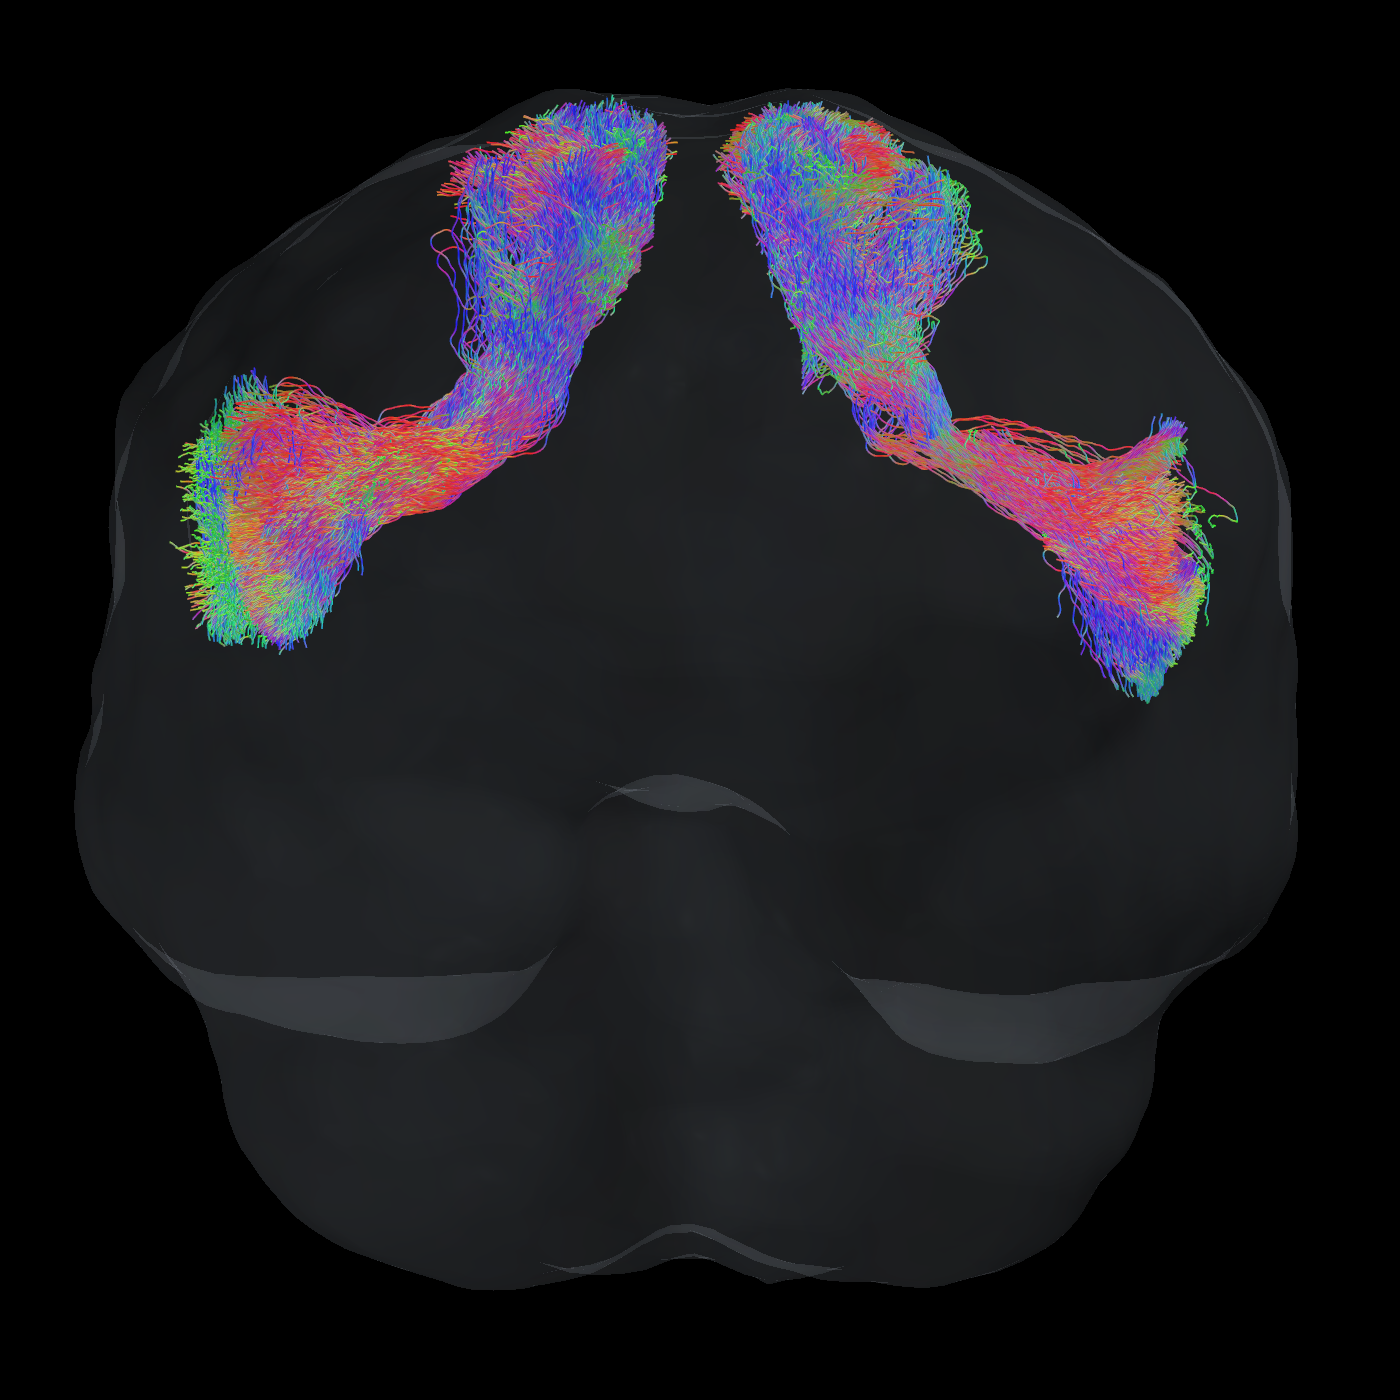
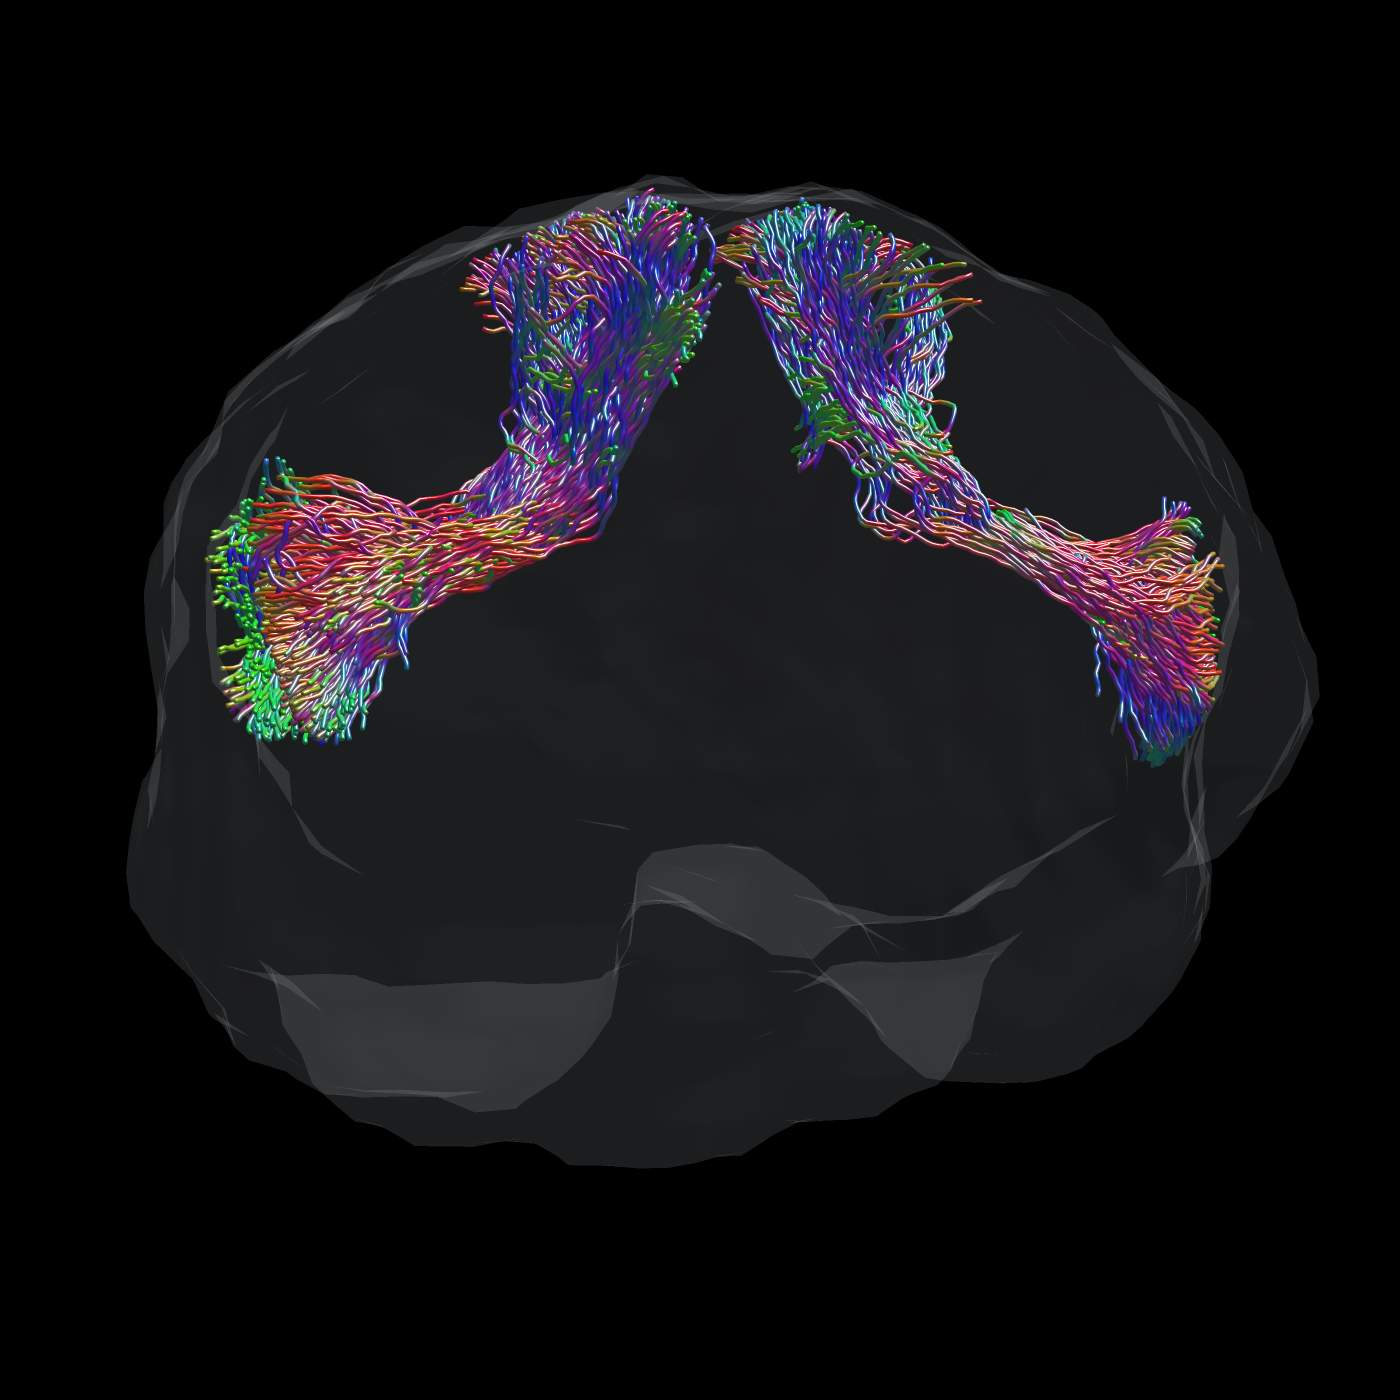
Anchor viewer skylight and refresh reflective tract preview

diff --git a/docs/sky-light.js b/docs/sky-light.js
@@ -1,0 +1,47 @@
+"use strict";
+
+// Plotly 2.32.0's mesh shader mixes view-space positions with object-space
+// light/eye coordinates. Keep lighting in world space instead: a distant
+// overhead light stays put, and only the eye moves when the scene is rotated.
+// This small adapter targets the bundled Plotly renderer; keep the browser
+// lighting check when upgrading it. Geometry and material shading stay intact.
+const skyLightVertexShader = `
+precision highp float;
+attribute vec3 position, normal;
+attribute vec4 color;
+attribute vec2 uv;
+uniform mat4 model, view, projection, inverseModel;
+varying vec3 f_normal, f_lightDirection, f_eyeDirection, f_data;
+varying vec4 f_color;
+varying vec2 f_uv;
+
+void main() {
+  vec4 worldPosition = model * vec4(position, 1.0);
+  gl_Position = projection * view * worldPosition;
+  vec3 skyPosition = vec3(-3.0, 4.0, 8.0);
+  vec3 eyeWorld = -view[3].xyz * mat3(view);
+  f_lightDirection = skyPosition - worldPosition.xyz;
+  f_eyeDirection = eyeWorld - worldPosition.xyz;
+  f_normal = normalize((vec4(normal, 0.0) * inverseModel).xyz);
+  f_color = color;
+  f_data = position;
+  f_uv = uv;
+}
+`;
+
+const skyLightShaders = new WeakSet();
+
+function applySkyLight(plot) {
+  const scene = plot._fullLayout.scene._scene;
+  for (const trace of Object.values(scene.traces)) {
+    const mesh = trace.mesh;
+    const shader = mesh.triShader;
+    if (skyLightShaders.has(shader)) continue;
+    const attributes = Object.entries(shader.types.attributes).map(([name, type]) => ({
+      name, type, location: shader.attributes[name].location
+    }));
+    shader.update(skyLightVertexShader, mesh.gl.getShaderSource(shader.fragShader), null, attributes);
+    skyLightShaders.add(shader);
+  }
+  scene.glplot.redraw();
+}

diff --git a/docs/viewer.js b/docs/viewer.js
@@ -1,4 +1,4 @@
-/* global Plotly, tractMesh */
+/* global Plotly, tractMesh, applySkyLight */
 "use strict";
 
 const viewer = document.getElementById("viewer");
@@ -47,6 +47,7 @@ async function showAlgorithm() {
         zaxis: {visible: false, autorange: false, range: [-95, 92]}}
     };
     await Plotly.react(viewer, traces, layout, {displayModeBar: false, scrollZoom: true, responsive: true});
+    applySkyLight(viewer);
     ready = true;
     current = requested;
     viewer.dataset.algorithm = current;

diff --git a/docs/index.html b/docs/index.html
@@ -7,8 +7,9 @@
   <meta name="description" content="Explore the Frontal Aslant Tract in 3D and compare tracking algorithms.">
   <link rel="stylesheet" href="viewer.css">
   <script defer src="vendor/plotly.min.js"></script>
-  <script defer src="tract-mesh.js?v=1"></script>
-  <script defer src="viewer.js?v=3"></script>
+  <script defer src="tract-mesh.js?v=2"></script>
+  <script defer src="sky-light.js?v=1"></script>
+  <script defer src="viewer.js?v=4"></script>
 </head>
 <body>
   <header>

diff --git a/docs/tract-mesh.js b/docs/tract-mesh.js
@@ -36,7 +36,6 @@ function tractMesh(trace) {
     i: new Uint32Array(faces), j: new Uint32Array(faces), k: new Uint32Array(faces),
     vertexcolor: new Array(vertices), flatshading: false,
     lighting: {ambient: 0.32, diffuse: 0.72, specular: 1.5, roughness: 0.2, fresnel: 0.3},
-    lightposition: {x: 1000, y: 1500, z: 2000},
     opacity: 1, hoverinfo: "skip", showscale: false, showlegend: false
   };
   const circle = Array.from({length: sides}, (_, side) => {

diff --git a/tests/viewer_lighting_check.py b/tests/viewer_lighting_check.py
@@ -1,0 +1,101 @@
+"""Check fixed skylight reflections and optionally capture the README preview.
+
+Use the Chrome setup documented in viewer_geometry_check.py. Requires Pillow
+and NumPy as well as websocket-client. To also refresh the repository image:
+python3 tests/viewer_lighting_check.py --preview assets/fat_3d.png
+"""
+
+import argparse
+import base64
+from io import BytesIO
+from pathlib import Path
+import time
+
+import numpy as np
+from PIL import Image
+
+from viewer_geometry_check import Browser
+
+
+def evaluate(browser: Browser, expression: str) -> None:
+    result = browser.call("Runtime.evaluate", dict(expression=expression, awaitPromise=True))
+    if "exceptionDetails" in result:
+        raise RuntimeError(result["exceptionDetails"])
+
+
+def capture(browser: Browser, size: int) -> bytes:
+    evaluate(browser, "new Promise(resolve => requestAnimationFrame(() => requestAnimationFrame(resolve)))")
+    time.sleep(0.5)
+    return base64.b64decode(browser.call("Page.captureScreenshot", dict(
+        format="png", clip=dict(x=0, y=0, width=size, height=size, scale=1)))['data'])
+
+
+def main() -> None:
+    parser = argparse.ArgumentParser(description=__doc__)
+    parser.add_argument("--url", default="http://127.0.0.1:8766")
+    parser.add_argument("--debug-url", default="http://127.0.0.1:9238")
+    parser.add_argument("--preview", type=Path)
+    args = parser.parse_args()
+    browser = Browser(args.debug_url)
+    try:
+        browser.call("Page.enable")
+        browser.call("Network.enable")
+        browser.call("Network.setCacheDisabled", dict(cacheDisabled=True))
+        browser.call("Emulation.setDeviceMetricsOverride", dict(
+            width=900, height=900, deviceScaleFactor=1, mobile=False))
+        separator = "&" if "?" in args.url else "?"
+        browser.call("Page.navigate", dict(url=f"{args.url}{separator}lighting-check={time.time()}"))
+        browser.wait_for("document.getElementById('viewer')?.dataset.algorithm === 'iFOD2'")
+        # A horizontal mirror-like square must shine toward the reflected sky
+        # direction (+3,-4,+8), and dim when viewed from the opposite azimuth.
+        # Its centre stays at the same screen position in both views.
+        evaluate(browser, """(async () => {
+          const probe = document.createElement('div');
+          probe.id = 'lighting-probe';
+          probe.style = 'position:fixed;left:0;top:0;width:512px;height:512px;z-index:100';
+          document.body.appendChild(probe);
+          const axis = {visible:false, range:[-1,1], autorange:false};
+          await Plotly.newPlot(probe, [{type:'mesh3d',
+            x:[-0.7,0.7,0.7,-0.7], y:[-0.7,-0.7,0.7,0.7], z:[0,0,0,0],
+            i:[0,0],j:[1,2],k:[2,3],color:'white',flatshading:true,
+            lighting:{ambient:0,diffuse:0,specular:1,roughness:0.2,fresnel:0.3}}],
+            {paper_bgcolor:'black',margin:{l:0,r:0,t:0,b:0},scene:{bgcolor:'black',
+              xaxis:axis,yaxis:axis,zaxis:axis,aspectmode:'cube',
+              camera:{eye:{x:0.6,y:-0.8,z:1.6},up:{x:0,y:0,z:1}}}},
+            {displayModeBar:false});
+          applySkyLight(probe);
+        })()""")
+        reflected = np.asarray(Image.open(BytesIO(capture(browser, 512))).convert("RGB"))
+        evaluate(browser, """Plotly.relayout(document.getElementById('lighting-probe'), {
+          'scene.camera.eye':{x:-0.6,y:0.8,z:1.6}})""")
+        opposite = np.asarray(Image.open(BytesIO(capture(browser, 512))).convert("RGB"))
+        bright = float(reflected[248:264, 248:264].mean())
+        dark = float(opposite[248:264, 248:264].mean())
+        if not bright > max(30, dark * 3):
+            raise AssertionError(f"Skylight did not stay fixed as the camera rotated: {bright=}, {dark=}")
+        print(f"Fixed skylight: reflection {bright:.1f}/255, opposite view {dark:.1f}/255.", flush=True)
+        evaluate(browser, """(() => {
+          const probe=document.getElementById('lighting-probe');
+          Plotly.purge(probe); probe.remove();
+        })()""")
+        if args.preview:
+            browser.call("Emulation.setDeviceMetricsOverride", dict(
+                width=1400, height=1400, deviceScaleFactor=1, mobile=False))
+            evaluate(browser, """(async () => {
+              document.querySelector('header').style.display='none';
+              document.querySelector('footer').style.display='none';
+              document.body.style.display='block';
+              const plot=document.getElementById('viewer');
+              plot.style.width='1400px'; plot.style.height='1400px';
+              await Plotly.Plots.resize(plot);
+              await Plotly.relayout(plot, {'scene.camera':{
+                eye:{x:0.24,y:1.1,z:0.18},up:{x:0,y:0,z:1},center:{x:0,y:0,z:0.02}}});
+            })()""")
+            args.preview.write_bytes(capture(browser, 1400))
+            print(f"Saved preview: {args.preview}", flush=True)
+    finally:
+        browser.connection.close()
+
+
+if __name__ == "__main__":
+    main()

diff --git a/tests/viewer_geometry_check.py b/tests/viewer_geometry_check.py
@@ -85,6 +85,10 @@ def main() -> None:
                              "document.getElementById('algorithm').dispatchEvent(new Event('change'));true")
             browser.wait_for(f"document.getElementById('viewer').dataset.algorithm === {json.dumps(algorithm)}"
                              " && !document.getElementById('algorithm').disabled")
+            if not browser.evaluate("""Object.values(document.getElementById('viewer')._fullLayout.scene._scene.traces)
+                .every(({mesh}) => mesh.gl.getProgramParameter(mesh.triShader.program, mesh.gl.LINK_STATUS)
+                  && mesh.gl.getShaderSource(mesh.triShader.vertShader).includes('skyPosition - worldPosition.xyz'))"""):
+                raise AssertionError(f"Fixed skylight shader missing or invalid for {algorithm}")
             for side in ("both", "left", "right"):
                 browser.evaluate(f"document.getElementById('side').value={json.dumps(side)};"
                                  "document.getElementById('side').dispatchEvent(new Event('change'));true")

diff --git a/README.md b/README.md
@@ -7,7 +7,7 @@ and a brain-extracted T1, using HCP1065 atlas masks and cortical target regions.
 `fat.sh` runs iFOD2 with 2000 streamlines per side by default. Tracking algorithms,
 streamline counts and mask settings are selectable through command-line options.
 
-[![FAT in direction RGB — open the 3D viewer](assets/fat_3d.png)](https://lucsam.github.io/tractseg_xtract_fat/)
+[![FAT in direction RGB with fixed skylight reflections — open the 3D viewer](assets/fat_3d.png?v=2)](https://lucsam.github.io/tractseg_xtract_fat/)
 
 [Open the 3D viewer](https://lucsam.github.io/tractseg_xtract_fat/) to rotate the
 tracts and select iFOD2, SD_STREAM, FACT, Tensor_Det or Tensor_Prob.
@@ -355,7 +355,8 @@ containment and endpoint connections, followed by ShellCheck, Ruff and mypy.
 
 For the viewer's tube geometry, run `node --test tests/viewer_mesh.test.cjs`
 with Node.js installed. The optional browser check is described in
-`tests/viewer_geometry_check.py`.
+`tests/viewer_geometry_check.py`. To verify the fixed skylight and regenerate
+the preview image, see `tests/viewer_lighting_check.py`.
 
 ## Attribution
 
